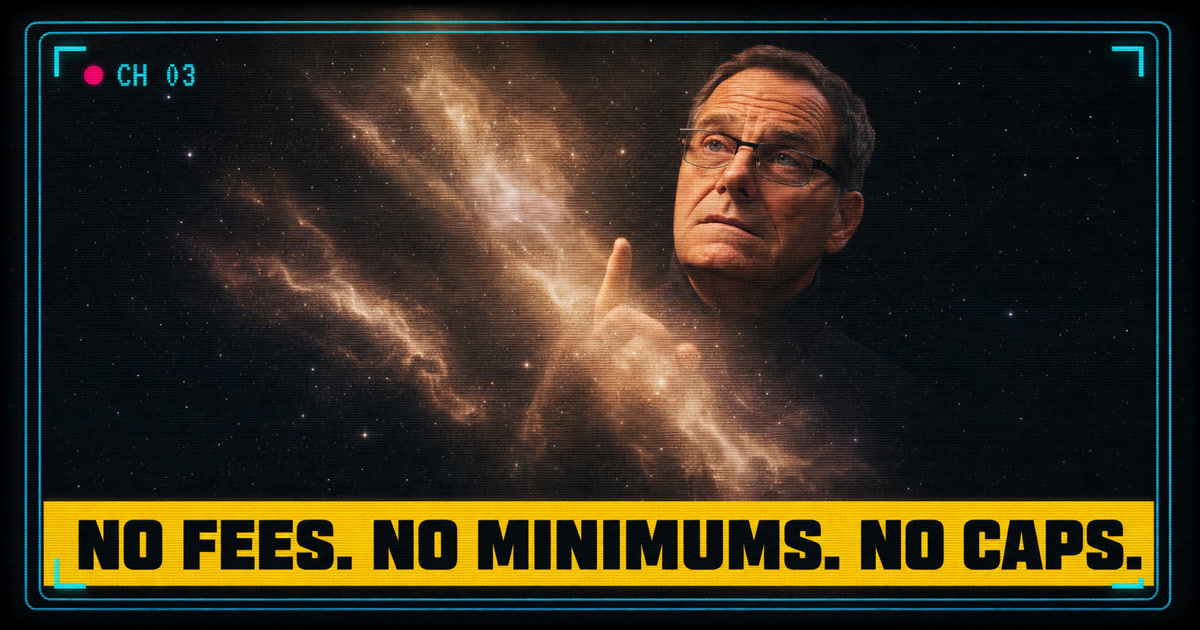
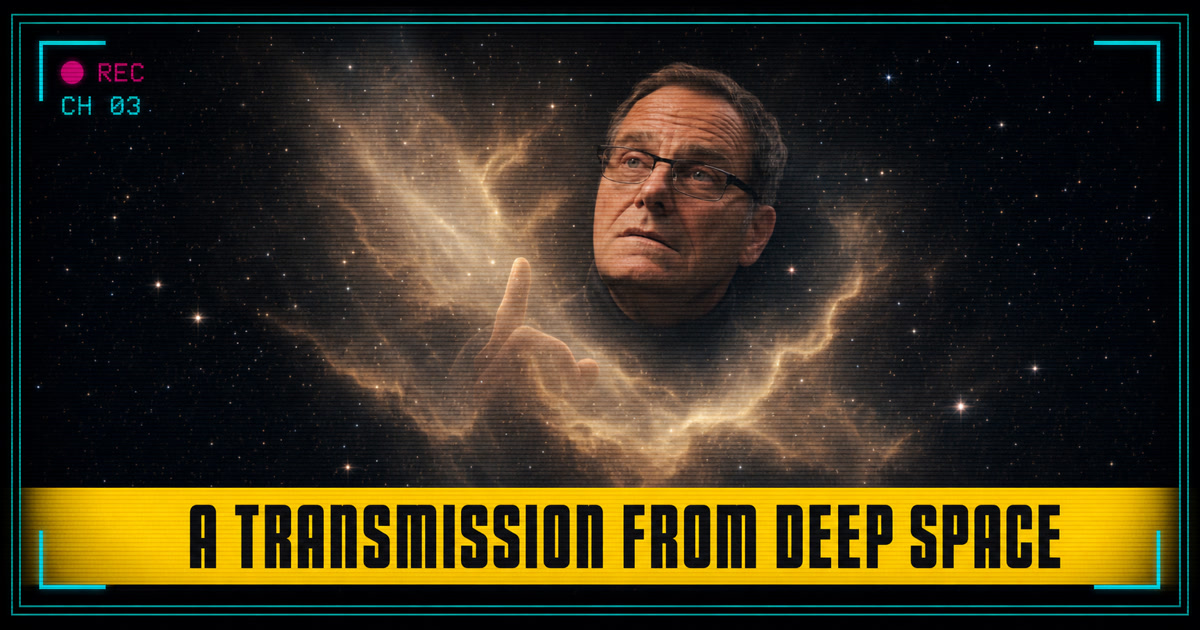
Refine share card: title on image, tagline + CTA in description

diff --git a/index.html b/index.html
@@ -9,12 +9,12 @@
   <link rel="icon" type="image/svg+xml" href="favicon.svg" />
 
   <!-- SEO -->
-  <meta name="description" content="A transmission from deep space about Ramp Business Banking. No fees. No minimums. No caps." />
+  <meta name="description" content="No fees. No minimums. No caps. // Try Ramp Business Banking today." />
 
   <!-- Open Graph -->
   <meta property="og:type" content="website" />
-  <meta property="og:title" content="A Transmission from Deep Space · Ramp Banking" />
-  <meta property="og:description" content="No fees. No minimums. No caps. Try Ramp Business Banking today." />
+  <meta property="og:title" content="A Transmission from Deep Space" />
+  <meta property="og:description" content="No fees. No minimums. No caps. // Try Ramp Business Banking today." />
   <meta property="og:image" content="https://kendallhtucker.github.io/buckley-banking-universe/assets/og-image.jpg" />
   <meta property="og:image:width" content="1200" />
   <meta property="og:image:height" content="630" />
@@ -22,8 +22,8 @@
 
   <!-- Twitter -->
   <meta name="twitter:card" content="summary_large_image" />
-  <meta name="twitter:title" content="A Transmission from Deep Space · Ramp Banking" />
-  <meta name="twitter:description" content="No fees. No minimums. No caps. Try Ramp Business Banking today." />
+  <meta name="twitter:title" content="A Transmission from Deep Space" />
+  <meta name="twitter:description" content="No fees. No minimums. No caps. // Try Ramp Business Banking today." />
   <meta name="twitter:image" content="https://kendallhtucker.github.io/buckley-banking-universe/assets/og-image.jpg" />
   <link rel="preconnect" href="https://fonts.googleapis.com" />
   <link rel="preconnect" href="https://fonts.gstatic.com" crossorigin />